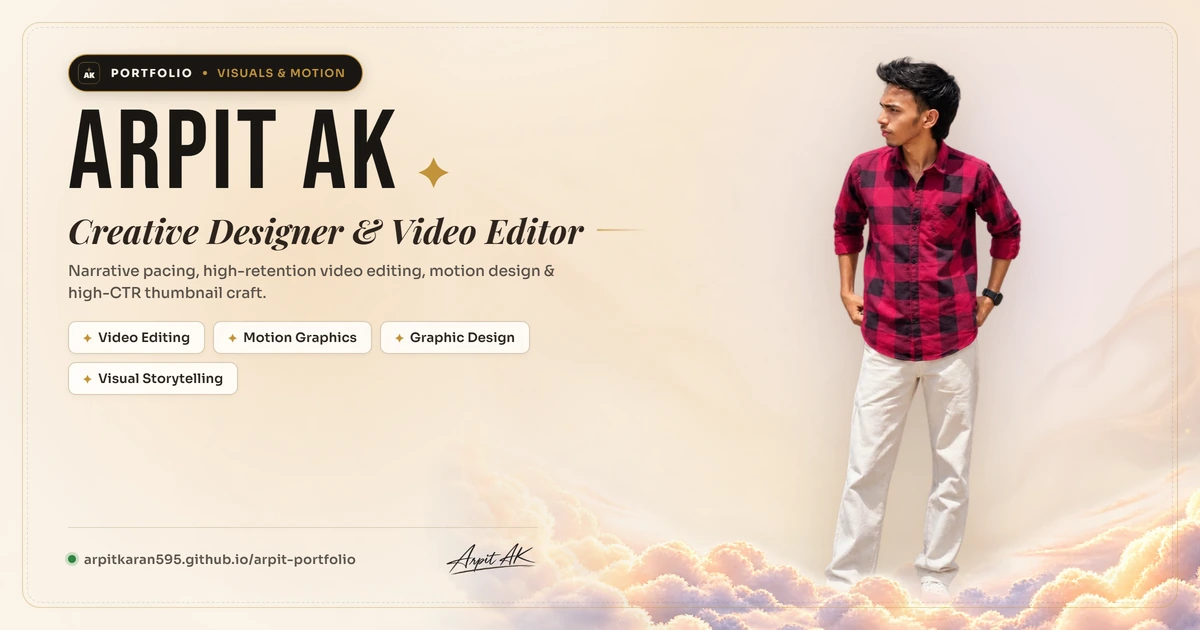
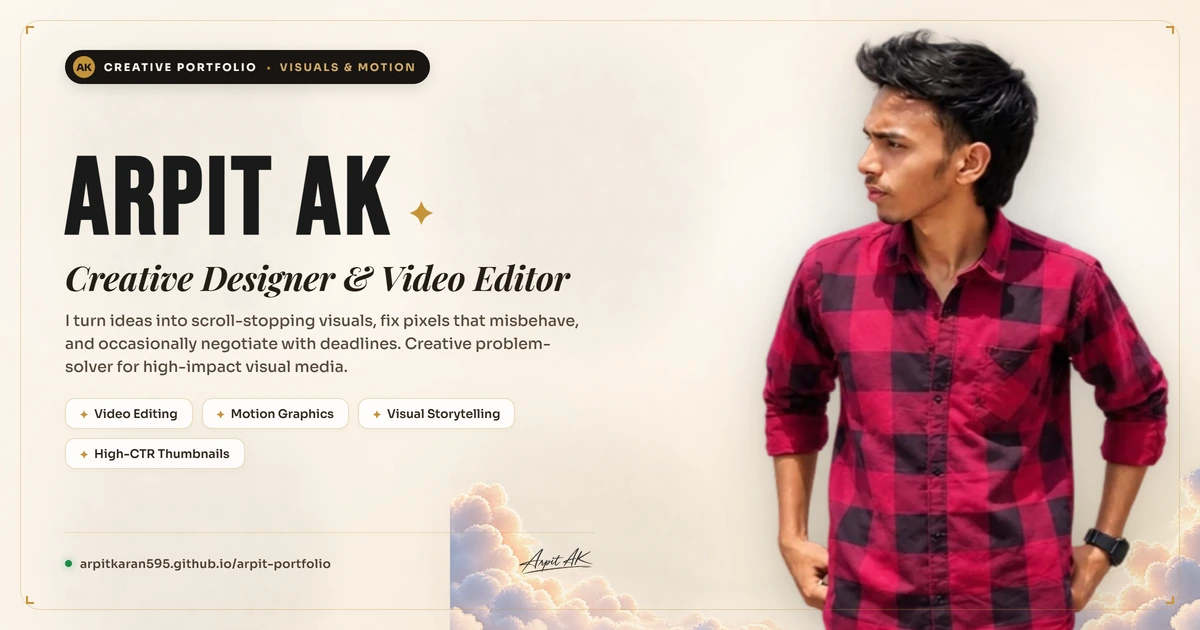
feat: improve OG preview card and mobile footer bilingual toggle

diff --git a/src/components/Footer.tsx b/src/components/Footer.tsx
@@ -1,4 +1,4 @@
-import React, { useEffect, useRef, useCallback } from 'react';
+import React, { useEffect, useRef, useCallback, useState } from 'react';
 import { useLocation, useNavigate } from 'react-router-dom';
 import gsap from 'gsap';
 import { ScrollTrigger } from 'gsap/ScrollTrigger';
@@ -250,43 +250,41 @@ const Footer: React.FC = () => {
     }
   }, [updateMask]);
 
-  const touchTimeoutRef = useRef<ReturnType<typeof setTimeout> | null>(null);
-  const isTouchRevealedRef = useRef(false);
-  const lastTouchTimeRef = useRef(0);
+  const [isToggled, setIsToggled] = useState(false);
+  const isToggledRef = useRef(false);
+  const lastToggleTimeRef = useRef(0);
 
-  const triggerTouchReveal = useCallback((clientX?: number, clientY?: number) => {
+  const toggleReveal = useCallback((clientX?: number, clientY?: number) => {
     const now = performance.now();
-    if (now - lastTouchTimeRef.current < 250) return;
-    lastTouchTimeRef.current = now;
+    if (now - lastToggleTimeRef.current < 180) return;
+    lastToggleTimeRef.current = now;
 
     if (!textStageRef.current) return;
     const rect = textStageRef.current.getBoundingClientRect();
-    const relX = clientX !== undefined ? clientX - rect.left : rect.width / 2;
-    const relY = clientY !== undefined ? clientY - rect.top : rect.height / 2;
+    const centerX = rect.width / 2;
+    const centerY = rect.height / 2;
 
-    mousePos.current.x = relX;
-    mousePos.current.y = relY;
-    mousePos.current.targetX = relX;
-    mousePos.current.targetY = relY;
+    const nextState = !isToggledRef.current;
+    isToggledRef.current = nextState;
+    setIsToggled(nextState);
 
-    if (isTouchRevealedRef.current) {
+    if (nextState) {
+      mousePos.current.x = clientX !== undefined ? clientX - rect.left : centerX;
+      mousePos.current.y = clientY !== undefined ? clientY - rect.top : centerY;
+      mousePos.current.targetX = centerX;
+      mousePos.current.targetY = centerY;
+
+      // Generous radius to ensure 100% solid mask coverage across the entire text
+      const halfW = rect.width / 2;
+      const halfH = rect.height / 2;
+      const cornerDist = Math.sqrt(halfW * halfW + halfH * halfH);
+      const targetRadius = Math.max(cornerDist * 2.3, 200);
+
+      maskRadius.current.target = targetRadius;
+      isHovering.current = true;
+    } else {
       maskRadius.current.target = 0;
       isHovering.current = false;
-      isTouchRevealedRef.current = false;
-      if (touchTimeoutRef.current) clearTimeout(touchTimeoutRef.current);
-    } else {
-      const revealRadius = Math.max(rect.width, rect.height) * 0.85;
-      maskRadius.current.target = Math.max(140, revealRadius);
-      isHovering.current = true;
-      isTouchRevealedRef.current = true;
-
-      if (touchTimeoutRef.current) clearTimeout(touchTimeoutRef.current);
-      touchTimeoutRef.current = setTimeout(() => {
-        maskRadius.current.target = 0;
-        isHovering.current = false;
-        isTouchRevealedRef.current = false;
-        startAnimation();
-      }, 3500);
     }
 
     startAnimation();
@@ -294,7 +292,7 @@ const Footer: React.FC = () => {
 
   const handlePointerEnter = (e: React.PointerEvent<HTMLDivElement>) => {
     if (e.pointerType === 'touch') return;
-    if (isTouchRevealedRef.current) return;
+    if (isToggledRef.current) return;
     if (!textStageRef.current) return;
     const rect = textStageRef.current.getBoundingClientRect();
     const relX = e.clientX - rect.left;
@@ -313,7 +311,7 @@ const Footer: React.FC = () => {
 
   const handlePointerMove = (e: React.PointerEvent<HTMLDivElement>) => {
     if (e.pointerType === 'touch') return;
-    if (isTouchRevealedRef.current) return;
+    if (isToggledRef.current) return;
     if (!textStageRef.current) return;
     const rect = textStageRef.current.getBoundingClientRect();
     mousePos.current.targetX = e.clientX - rect.left;
@@ -324,28 +322,20 @@ const Footer: React.FC = () => {
 
   const handlePointerLeave = (e: React.PointerEvent<HTMLDivElement>) => {
     if (e.pointerType === 'touch') return;
-    if (isTouchRevealedRef.current) return;
+    if (isToggledRef.current) return;
     maskRadius.current.target = 0;
     isHovering.current = false;
     startAnimation();
   };
 
-  const handlePointerDown = (e: React.PointerEvent<HTMLDivElement>) => {
-    if (e.pointerType === 'touch') {
-      triggerTouchReveal(e.clientX, e.clientY);
-    }
-  };
-
   const handleClick = (e: React.MouseEvent<HTMLDivElement>) => {
-    if (window.matchMedia('(pointer: coarse)').matches) {
-      triggerTouchReveal(e.clientX, e.clientY);
-    }
+    toggleReveal(e.clientX, e.clientY);
   };
 
   const handleKeyDown = (e: React.KeyboardEvent<HTMLDivElement>) => {
     if (e.key === 'Enter' || e.key === ' ') {
       e.preventDefault();
-      triggerTouchReveal();
+      toggleReveal();
     }
   };
 
@@ -353,9 +343,6 @@ const Footer: React.FC = () => {
     return () => {
       if (rafId.current) {
         cancelAnimationFrame(rafId.current);
-      }
-      if (touchTimeoutRef.current) {
-        clearTimeout(touchTimeoutRef.current);
       }
     };
   }, []);
@@ -615,13 +602,13 @@ const Footer: React.FC = () => {
             role="button"
             tabIndex={0}
             aria-label="Toggle bilingual name reveal"
+            aria-pressed={isToggled}
             onPointerEnter={handlePointerEnter}
             onPointerMove={handlePointerMove}
             onPointerLeave={handlePointerLeave}
-            onPointerDown={handlePointerDown}
             onClick={handleClick}
             onKeyDown={handleKeyDown}
-            className="relative inline-block select-none cursor-pointer sm:cursor-default py-2 touch-none whitespace-nowrap focus:outline-none"
+            className="relative inline-block select-none cursor-pointer py-3 px-4 touch-manipulation whitespace-nowrap focus:outline-none focus-visible:ring-2 focus-visible:ring-[#C4943A]/50 rounded-xl"
           >
             {/* Physical Terrain Contact / Grounding Shadow at Letter Base */}
             <div
@@ -646,7 +633,7 @@ const Footer: React.FC = () => {
             {/* 4B. Default English Layer: ARPIT AK (Mask punches hole under cursor) */}
             <div
               ref={englishTextRef}
-              className="footer-name-text absolute inset-0 flex items-center justify-center font-sora font-extrabold uppercase tracking-tight leading-none text-white text-center select-none pointer-events-none whitespace-nowrap"
+              className="footer-name-text absolute -top-12 -bottom-12 inset-x-0 flex items-center justify-center font-sora font-extrabold uppercase tracking-tight leading-none text-white text-center select-none pointer-events-none whitespace-nowrap"
               style={{
                 ...typographicDepthStyle,
                 willChange: 'mask-image, -webkit-mask-image',
@@ -660,7 +647,7 @@ const Footer: React.FC = () => {
             {/* 4C. Hindi Layer: अर्पित (Identical geometry, revealed only under cursor mask) */}
             <div
               ref={hindiTextRef}
-              className="footer-name-text absolute inset-0 flex items-center justify-center font-sora font-extrabold tracking-[0.22em] leading-none text-white text-center select-none pointer-events-none whitespace-nowrap"
+              className="footer-name-text absolute -top-12 -bottom-12 inset-x-0 flex items-center justify-center font-sora font-extrabold tracking-[0.22em] leading-none text-white text-center select-none pointer-events-none whitespace-nowrap"
               style={{
                 paddingLeft: '0.22em',
                 opacity: 0,

diff --git a/index.html b/index.html
@@ -8,9 +8,9 @@
     <meta name="theme-color" content="#FAF3E8" />
     
     <!-- Primary Meta Tags -->
-    <title>Arpit AK — Creative Designer &amp; Video Editor</title>
-    <meta name="title" content="Arpit AK — Creative Designer &amp; Video Editor" />
-    <meta name="description" content="Personal creative portfolio of Arpit AK — Video Editor, Motion Designer &amp; Graphic Designer specializing in narrative pacing, visual storytelling, and high-CTR thumbnail design." />
+    <title>Arpit AK — I Make Pixels Behave (Mostly)</title>
+    <meta name="title" content="Arpit AK — I Make Pixels Behave (Mostly)" />
+    <meta name="description" content="Graphic designer, video editor &amp; creative problem-solver. I turn ideas into scroll-stopping visuals, fix pixels that misbehave, and occasionally negotiate with deadlines. Explore my work." />
     <meta name="keywords" content="Arpit AK, Video Editor, Graphic Designer, Motion Graphics, YouTube Thumbnails, Creative Director, Visual Storytelling, After Effects, Premiere Pro" />
     <meta name="author" content="Arpit AK" />
     <meta name="robots" content="index, follow" />
@@ -22,8 +22,8 @@
     <meta property="og:type" content="website" />
     <meta property="og:url" content="https://arpitkaran595.github.io/arpit-portfolio/" />
     <meta property="og:site_name" content="Arpit AK Portfolio" />
-    <meta property="og:title" content="Arpit AK — Creative Designer &amp; Video Editor" />
-    <meta property="og:description" content="Personal creative portfolio of Arpit AK — Video Editor, Motion Designer &amp; Graphic Designer specializing in narrative pacing and visual storytelling." />
+    <meta property="og:title" content="Arpit AK — I Make Pixels Behave (Mostly)" />
+    <meta property="og:description" content="Graphic designer, video editor &amp; creative problem-solver. I turn ideas into scroll-stopping visuals, fix pixels that misbehave, and occasionally negotiate with deadlines. Explore my work." />
     <meta property="og:image" content="https://arpitkaran595.github.io/arpit-portfolio/og-image.webp" />
     <meta property="og:image:width" content="1200" />
     <meta property="og:image:height" content="630" />
@@ -31,8 +31,8 @@
 
     <!-- Twitter -->
     <meta property="twitter:card" content="summary_large_image" />
-    <meta property="twitter:title" content="Arpit AK — Creative Designer &amp; Video Editor" />
-    <meta property="twitter:description" content="Personal creative portfolio of Arpit AK — Video Editor, Motion Designer &amp; Graphic Designer specializing in narrative pacing and visual storytelling." />
+    <meta property="twitter:title" content="Arpit AK — I Make Pixels Behave (Mostly)" />
+    <meta property="twitter:description" content="Graphic designer, video editor &amp; creative problem-solver. I turn ideas into scroll-stopping visuals, fix pixels that misbehave, and occasionally negotiate with deadlines. Explore my work." />
     <meta property="twitter:image" content="https://arpitkaran595.github.io/arpit-portfolio/og-image.webp" />
 
     <!-- Single Page Apps for GitHub Pages routing -->
@@ -62,7 +62,7 @@
           "url": "https://arpitkaran595.github.io/arpit-portfolio/",
           "image": "https://arpitkaran595.github.io/arpit-portfolio/og-image.webp",
           "jobTitle": "Creative Designer & Video Editor",
-          "description": "Video Editor, Motion Designer & Graphic Designer specializing in narrative pacing, retention, and visual storytelling.",
+          "description": "Graphic designer, video editor & creative problem-solver. I turn ideas into scroll-stopping visuals, fix pixels that misbehave, and occasionally negotiate with deadlines. Explore my work.",
           "sameAs": [
             "https://instagram.com/i_am__arpittt",
             "https://www.linkedin.com/in/arpitdesigns",

diff --git a/src/index.css b/src/index.css
@@ -202,11 +202,11 @@ html.lenis, html.lenis body {
 
 /* ===== Footer Responsive Name & Mobile Depth ===== */
 .footer-name-lockup {
-  bottom: clamp(48px, 11vw, 62px);
+  bottom: clamp(62px, 15vw, 68px);
 }
 @media (min-width: 640px) {
   .footer-name-lockup {
-    bottom: clamp(60px, 12vw, 85px);
+    bottom: clamp(70px, 12vw, 85px);
   }
 }
 @media (min-width: 768px) {

diff --git a/src/pages/HomePage.tsx b/src/pages/HomePage.tsx
@@ -59,7 +59,7 @@ export default function HomePage() {
   const navRef = useRef<HTMLElement>(null);
 
   useEffect(() => {
-    document.title = 'Arpit AK — Creative Designer & Video Editor';
+    document.title = 'Arpit AK — I Make Pixels Behave (Mostly)';
   }, []);
 
   // Persist homepage scroll position cleanly so returning from Case Studies restores exact view
